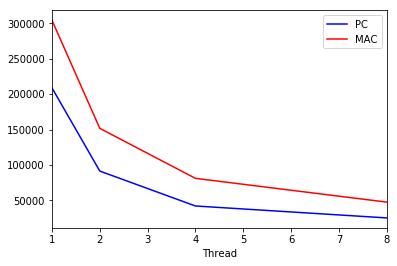
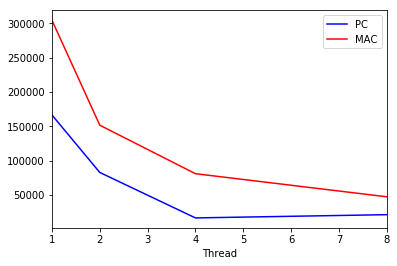
Update test result
Fix pool unresolved done
Update LFLL results

diff --git a/LF_LL/results/Test Results - LinkedListPerformanceTest_PC.html b/LF_LL/results/Test Results - LinkedListPerformanceTest_PC.html
@@ -2,7 +2,7 @@
 <html xmlns="http://www.w3.org/1999/xhtml">
 <head>
 <META http-equiv="Content-Type" content="text/html; charset=UTF-8">
-<title>Test Results &mdash; LinkedListPerformanceTest</title>
+<title>Test Results &mdash; LinkedListPerformanceTest.testB</title>
 <style type="text/css">
           html {
             height: 100%
@@ -572,8 +572,8 @@ jQuery.cookie = function(name, value, options) {
 <body>
 <div id="container">
 <div id="header">
-<div class="time" xmlns="">12 m 0 s</div>
-<h1>LinkedListPerformanceTest: <strong><span class="total" xmlns="http://www.w3.org/1999/xhtml">8 total, </span><span class="passed">8 passed</span></strong>
+<div class="time" xmlns="">58 m 19 s</div>
+<h1>LinkedListPerformanceTest.testB: <strong><span class="total" xmlns="http://www.w3.org/1999/xhtml">4 total, </span><span class="passed">4 passed</span></strong>
 </h1>
 <div id="treecontrol">
 <ul>
@@ -588,30 +588,20 @@ jQuery.cookie = function(name, value, options) {
 </div>
 </div>
 <div id="content">
-<ul id="tree">&amp;quot;C:\Program Files\Java\jdk1.8.0_144\bin\java&amp;quot; -ea -Didea.test.cyclic.buffer.size=1048576 &amp;quot;-javaagent:C:\Program Files\JetBrains\IntelliJ IDEA 2017.2.4\lib\idea_rt.jar=28673:C:\Program Files\JetBrains\IntelliJ IDEA 2017.2.4\bin&amp;quot; -Dfile.encoding=UTF-8 -classpath &amp;quot;C:\Program Files\JetBrains\IntelliJ IDEA 2017.2.4\lib\idea_rt.jar;C:\Program Files\JetBrains\IntelliJ IDEA 2017.2.4\plugins\junit\lib\junit-rt.jar;C:\Program Files\JetBrains\IntelliJ IDEA 2017.2.4\plugins\junit\lib\junit5-rt.jar;C:\Program Files\Java\jdk1.8.0_144\jre\lib\charsets.jar;C:\Program Files\Java\jdk1.8.0_144\jre\lib\deploy.jar;C:\Program Files\Java\jdk1.8.0_144\jre\lib\ext\access-bridge-64.jar;C:\Program Files\Java\jdk1.8.0_144\jre\lib\ext\cldrdata.jar;C:\Program Files\Java\jdk1.8.0_144\jre\lib\ext\dnsns.jar;C:\Program Files\Java\jdk1.8.0_144\jre\lib\ext\jaccess.jar;C:\Program Files\Java\jdk1.8.0_144\jre\lib\ext\jfxrt.jar;C:\Program Files\Java\jdk1.8.0_144\jre\lib\ext\localedata.jar;C:\Program Files\Java\jdk1.8.0_144\jre\lib\ext\nashorn.jar;C:\Program Files\Java\jdk1.8.0_144\jre\lib\ext\sunec.jar;C:\Program Files\Java\jdk1.8.0_144\jre\lib\ext\sunjce_provider.jar;C:\Program Files\Java\jdk1.8.0_144\jre\lib\ext\sunmscapi.jar;C:\Program Files\Java\jdk1.8.0_144\jre\lib\ext\sunpkcs11.jar;C:\Program Files\Java\jdk1.8.0_144\jre\lib\ext\zipfs.jar;C:\Program Files\Java\jdk1.8.0_144\jre\lib\javaws.jar;C:\Program Files\Java\jdk1.8.0_144\jre\lib\jce.jar;C:\Program Files\Java\jdk1.8.0_144\jre\lib\jfr.jar;C:\Program Files\Java\jdk1.8.0_144\jre\lib\jfxswt.jar;C:\Program Files\Java\jdk1.8.0_144\jre\lib\jsse.jar;C:\Program Files\Java\jdk1.8.0_144\jre\lib\management-agent.jar;C:\Program Files\Java\jdk1.8.0_144\jre\lib\plugin.jar;C:\Program Files\Java\jdk1.8.0_144\jre\lib\resources.jar;C:\Program Files\Java\jdk1.8.0_144\jre\lib\rt.jar;C:\Users\maybe\Documents\Workspace\CSE4006\LF_LL\out\test\LF_LL;C:\Users\maybe\Documents\Workspace\CSE4006\LF_LL\out\production\LF_LL;C:\Program Files\JetBrains\IntelliJ IDEA 2017.2.4\lib\junit-4.12.jar;C:\Program Files\JetBrains\IntelliJ IDEA 2017.2.4\lib\hamcrest-core-1.3.jar&amp;quot; com.intellij.rt.execution.junit.JUnitStarter -ideVersion5 -junit4 report.LinkedListPerformanceTest
+<ul id="tree">&amp;quot;C:\Program Files\Java\jdk1.8.0_151\bin\java&amp;quot; -ea -Didea.test.cyclic.buffer.size=1048576 &amp;quot;-javaagent:C:\Program Files\JetBrains\IntelliJ IDEA 2017.2.4\lib\idea_rt.jar=19291:C:\Program Files\JetBrains\IntelliJ IDEA 2017.2.4\bin&amp;quot; -Dfile.encoding=UTF-8 -classpath &amp;quot;C:\Program Files\JetBrains\IntelliJ IDEA 2017.2.4\lib\idea_rt.jar;C:\Program Files\JetBrains\IntelliJ IDEA 2017.2.4\plugins\junit\lib\junit-rt.jar;C:\Program Files\JetBrains\IntelliJ IDEA 2017.2.4\plugins\junit\lib\junit5-rt.jar;C:\Program Files\Java\jdk1.8.0_151\jre\lib\charsets.jar;C:\Program Files\Java\jdk1.8.0_151\jre\lib\deploy.jar;C:\Program Files\Java\jdk1.8.0_151\jre\lib\ext\access-bridge-64.jar;C:\Program Files\Java\jdk1.8.0_151\jre\lib\ext\cldrdata.jar;C:\Program Files\Java\jdk1.8.0_151\jre\lib\ext\dnsns.jar;C:\Program Files\Java\jdk1.8.0_151\jre\lib\ext\jaccess.jar;C:\Program Files\Java\jdk1.8.0_151\jre\lib\ext\jfxrt.jar;C:\Program Files\Java\jdk1.8.0_151\jre\lib\ext\localedata.jar;C:\Program Files\Java\jdk1.8.0_151\jre\lib\ext\nashorn.jar;C:\Program Files\Java\jdk1.8.0_151\jre\lib\ext\sunec.jar;C:\Program Files\Java\jdk1.8.0_151\jre\lib\ext\sunjce_provider.jar;C:\Program Files\Java\jdk1.8.0_151\jre\lib\ext\sunmscapi.jar;C:\Program Files\Java\jdk1.8.0_151\jre\lib\ext\sunpkcs11.jar;C:\Program Files\Java\jdk1.8.0_151\jre\lib\ext\zipfs.jar;C:\Program Files\Java\jdk1.8.0_151\jre\lib\javaws.jar;C:\Program Files\Java\jdk1.8.0_151\jre\lib\jce.jar;C:\Program Files\Java\jdk1.8.0_151\jre\lib\jfr.jar;C:\Program Files\Java\jdk1.8.0_151\jre\lib\jfxswt.jar;C:\Program Files\Java\jdk1.8.0_151\jre\lib\jsse.jar;C:\Program Files\Java\jdk1.8.0_151\jre\lib\management-agent.jar;C:\Program Files\Java\jdk1.8.0_151\jre\lib\plugin.jar;C:\Program Files\Java\jdk1.8.0_151\jre\lib\resources.jar;C:\Program Files\Java\jdk1.8.0_151\jre\lib\rt.jar;C:\Users\maybe\Documents\Workspace\CSE4006\LF_LL\out\test\LF_LL;C:\Users\maybe\Documents\Workspace\CSE4006\LF_LL\out\production\LF_LL;C:\Program Files\JetBrains\IntelliJ IDEA 2017.2.4\lib\junit-4.12.jar;C:\Program Files\JetBrains\IntelliJ IDEA 2017.2.4\lib\hamcrest-core-1.3.jar&amp;quot; com.intellij.rt.execution.junit.JUnitStarter -ideVersion5 -junit4 report.LinkedListPerformanceTest,testB
 Process finished with exit code 0
 <li xmlns="" class="level top open">
 <span><em class="time">
-<div class="time">6 m 44 s</div>
+<div class="time">34 m 35 s</div>
 </em>[0]</span>
 <ul>
 <li class="level test">
 <span><em class="time">
-<div class="time">3 m 29 s</div>
-</em><em class="status">passed</em>testA[0]</span>
-<ul>
-<li class="text">
-<span class="stdout">Inserting 100000 numbers takes 208897ms<br/></span>
-</li>
-</ul>
-</li>
-<li class="level test">
-<span><em class="time">
-<div class="time">3 m 15 s</div>
+<div class="time">34 m 35 s</div>
 </em><em class="status">passed</em>testB[0]</span>
 <ul>
 <li class="text">
-<span class="stdout">Inserting 100000 numbers takes 194838ms<br/>Insert and Search ratio 1:1, 100000 numbers takes 13ms<br/>Insert and Search ratio 1:4, 100000 numbers takes 8ms<br/>Insert and Search ratio 1:9, 100000 numbers takes 10ms<br/></span>
+<span class="stdout">Inserting 100000 numbers takes 166522ms<br/>Insert and Search ratio 1:1, 100000 numbers takes 758943ms<br/>Insert and Search ratio 1:4, 100000 numbers takes 597353ms<br/>Insert and Search ratio 1:9, 100000 numbers takes 552292ms<br/></span>
 </li>
 </ul>
 </li>
@@ -619,26 +609,16 @@ Process finished with exit code 0
 </li>
 <li class="level top open">
 <span><em class="time">
-<div class="time">3 m 4 s</div>
+<div class="time">16 m 54 s</div>
 </em>[1]</span>
 <ul>
 <li class="level test">
 <span><em class="time">
-<div class="time">1 m 31 s</div>
-</em><em class="status">passed</em>testA[1]</span>
-<ul>
-<li class="text">
-<span class="stdout">Inserting 100000 numbers takes 91346ms<br/></span>
-</li>
-</ul>
-</li>
-<li class="level test">
-<span><em class="time">
-<div class="time">1 m 32 s</div>
+<div class="time">16 m 54 s</div>
 </em><em class="status">passed</em>testB[1]</span>
 <ul>
 <li class="text">
-<span class="stdout">Inserting 100000 numbers takes 92267ms<br/>Insert and Search ratio 1:1, 100000 numbers takes 9ms<br/>Insert and Search ratio 1:4, 100000 numbers takes 8ms<br/>Insert and Search ratio 1:9, 100000 numbers takes 69ms<br/></span>
+<span class="stdout">Inserting 100000 numbers takes 82883ms<br/>Insert and Search ratio 1:1, 100000 numbers takes 360919ms<br/>Insert and Search ratio 1:4, 100000 numbers takes 299301ms<br/>Insert and Search ratio 1:9, 100000 numbers takes 270781ms<br/></span>
 </li>
 </ul>
 </li>
@@ -646,26 +626,16 @@ Process finished with exit code 0
 </li>
 <li class="level top open">
 <span><em class="time">
-<div class="time">1 m 24 s</div>
+<div class="time">2 m 6 s</div>
 </em>[2]</span>
 <ul>
 <li class="level test">
 <span><em class="time">
-<div class="time">42.03 s</div>
-</em><em class="status">passed</em>testA[2]</span>
-<ul>
-<li class="text">
-<span class="stdout">Inserting 100000 numbers takes 42026ms<br/></span>
-</li>
-</ul>
-</li>
-<li class="level test">
-<span><em class="time">
-<div class="time">42.02 s</div>
+<div class="time">2 m 6 s</div>
 </em><em class="status">passed</em>testB[2]</span>
 <ul>
 <li class="text">
-<span class="stdout">Inserting 100000 numbers takes 41996ms<br/>Insert and Search ratio 1:1, 100000 numbers takes 7ms<br/>Insert and Search ratio 1:4, 100000 numbers takes 8ms<br/>Insert and Search ratio 1:9, 100000 numbers takes 8ms<br/></span>
+<span class="stdout">Inserting 100000 numbers takes 16740ms<br/>Insert and Search ratio 1:1, 100000 numbers takes 42310ms<br/>Insert and Search ratio 1:4, 100000 numbers takes 33871ms<br/>Insert and Search ratio 1:9, 100000 numbers takes 32741ms<br/></span>
 </li>
 </ul>
 </li>
@@ -673,26 +643,16 @@ Process finished with exit code 0
 </li>
 <li class="level top open">
 <span><em class="time">
-<div class="time">48.74 s</div>
+<div class="time">4 m 44 s</div>
 </em>[3]</span>
 <ul>
 <li class="level test">
 <span><em class="time">
-<div class="time">25.18 s</div>
-</em><em class="status">passed</em>testA[3]</span>
-<ul>
-<li class="text">
-<span class="stdout">Inserting 100000 numbers takes 25182ms<br/></span>
-</li>
-</ul>
-</li>
-<li class="level test">
-<span><em class="time">
-<div class="time">23.56 s</div>
+<div class="time">4 m 44 s</div>
 </em><em class="status">passed</em>testB[3]</span>
 <ul>
 <li class="text">
-<span class="stdout">Inserting 100000 numbers takes 23526ms<br/>Insert and Search ratio 1:1, 100000 numbers takes 11ms<br/>Insert and Search ratio 1:4, 100000 numbers takes 10ms<br/>Insert and Search ratio 1:9, 100000 numbers takes 11ms<br/></span>
+<span class="stdout">Inserting 100000 numbers takes 21468ms<br/>Insert and Search ratio 1:1, 100000 numbers takes 101212ms<br/>Insert and Search ratio 1:4, 100000 numbers takes 81368ms<br/>Insert and Search ratio 1:9, 100000 numbers takes 79788ms<br/></span>
 </li>
 </ul>
 </li>
@@ -702,7 +662,7 @@ Process finished with exit code 0
 </div>
 </div>
 <div id="footer">
-<p>Generated by IntelliJ IDEA on 17. 11. 28 오후 9:10</p>
+<p>Generated by IntelliJ IDEA on 17. 11. 29 오후 9:57</p>
 </div>
 </body>
 </html>

diff --git a/LF_LL/src/LFLLMain.java b/LF_LL/src/LFLLMain.java
@@ -25,7 +25,7 @@ public class LFLLMain {
             System.out.println(String.format("Test Start with Thread %d", threadSize));
             try {
                 testA();
-                testB();
+                testB(threadSize);
             } catch (Exception e) {
                 e.printStackTrace();
             }
@@ -52,7 +52,7 @@ public class LFLLMain {
     }
 
 
-    static void testB() throws Exception {
+    static void testB(int threadSize) throws Exception {
         long insertTime = executeWithTime(() -> {
             numbers.forEach((e) -> pool.push(() -> list.add(e)));
             pool.join();
@@ -60,6 +60,7 @@ public class LFLLMain {
         System.out.println(String.format("TestB: Insert and Search %d with ratio", numbers.size()));
         for (int ratio : searchRatio) {
             long time = executeWithTime(() -> {
+                pool = new concurrent.Pool(threadSize);
                 numbers.forEach((e) -> {
                     if (assertRatio(1, ratio, e)) pool.push(() -> list.add(e));
                     else pool.push(() -> list.contains(e));

diff --git a/LF_LL/test/report/LinkedListPerformanceTest.java b/LF_LL/test/report/LinkedListPerformanceTest.java
@@ -20,7 +20,7 @@ public class LinkedListPerformanceTest {
 
     private int threadSize;
     private int[] searchRatio;
-    private static final int testSize = 100000;
+    private static final int testSize = 10000;
     private static java.util.List<Integer> numbers;
 
     @BeforeClass
@@ -78,10 +78,12 @@ public class LinkedListPerformanceTest {
 
         Random random = new Random();
         java.util.List<Integer> insertNumbers = IntStream.range(testSize, testSize * 2).boxed().collect(Collectors.toList());
+
         for (int i = 0; i < searchRatio.length; ++i) {
             final int ratio = searchRatio[i];
             int finalI = i;
             long time = executeWithTime(() -> {
+                pool = new concurrent.Pool(threadSize);
                 numbers.forEach((e) -> {
                     if (assertRatio(1, ratio, random.nextInt(ratio + 1)))
                         pool.push(() -> list.add(insertNumbers.get(finalI)));
